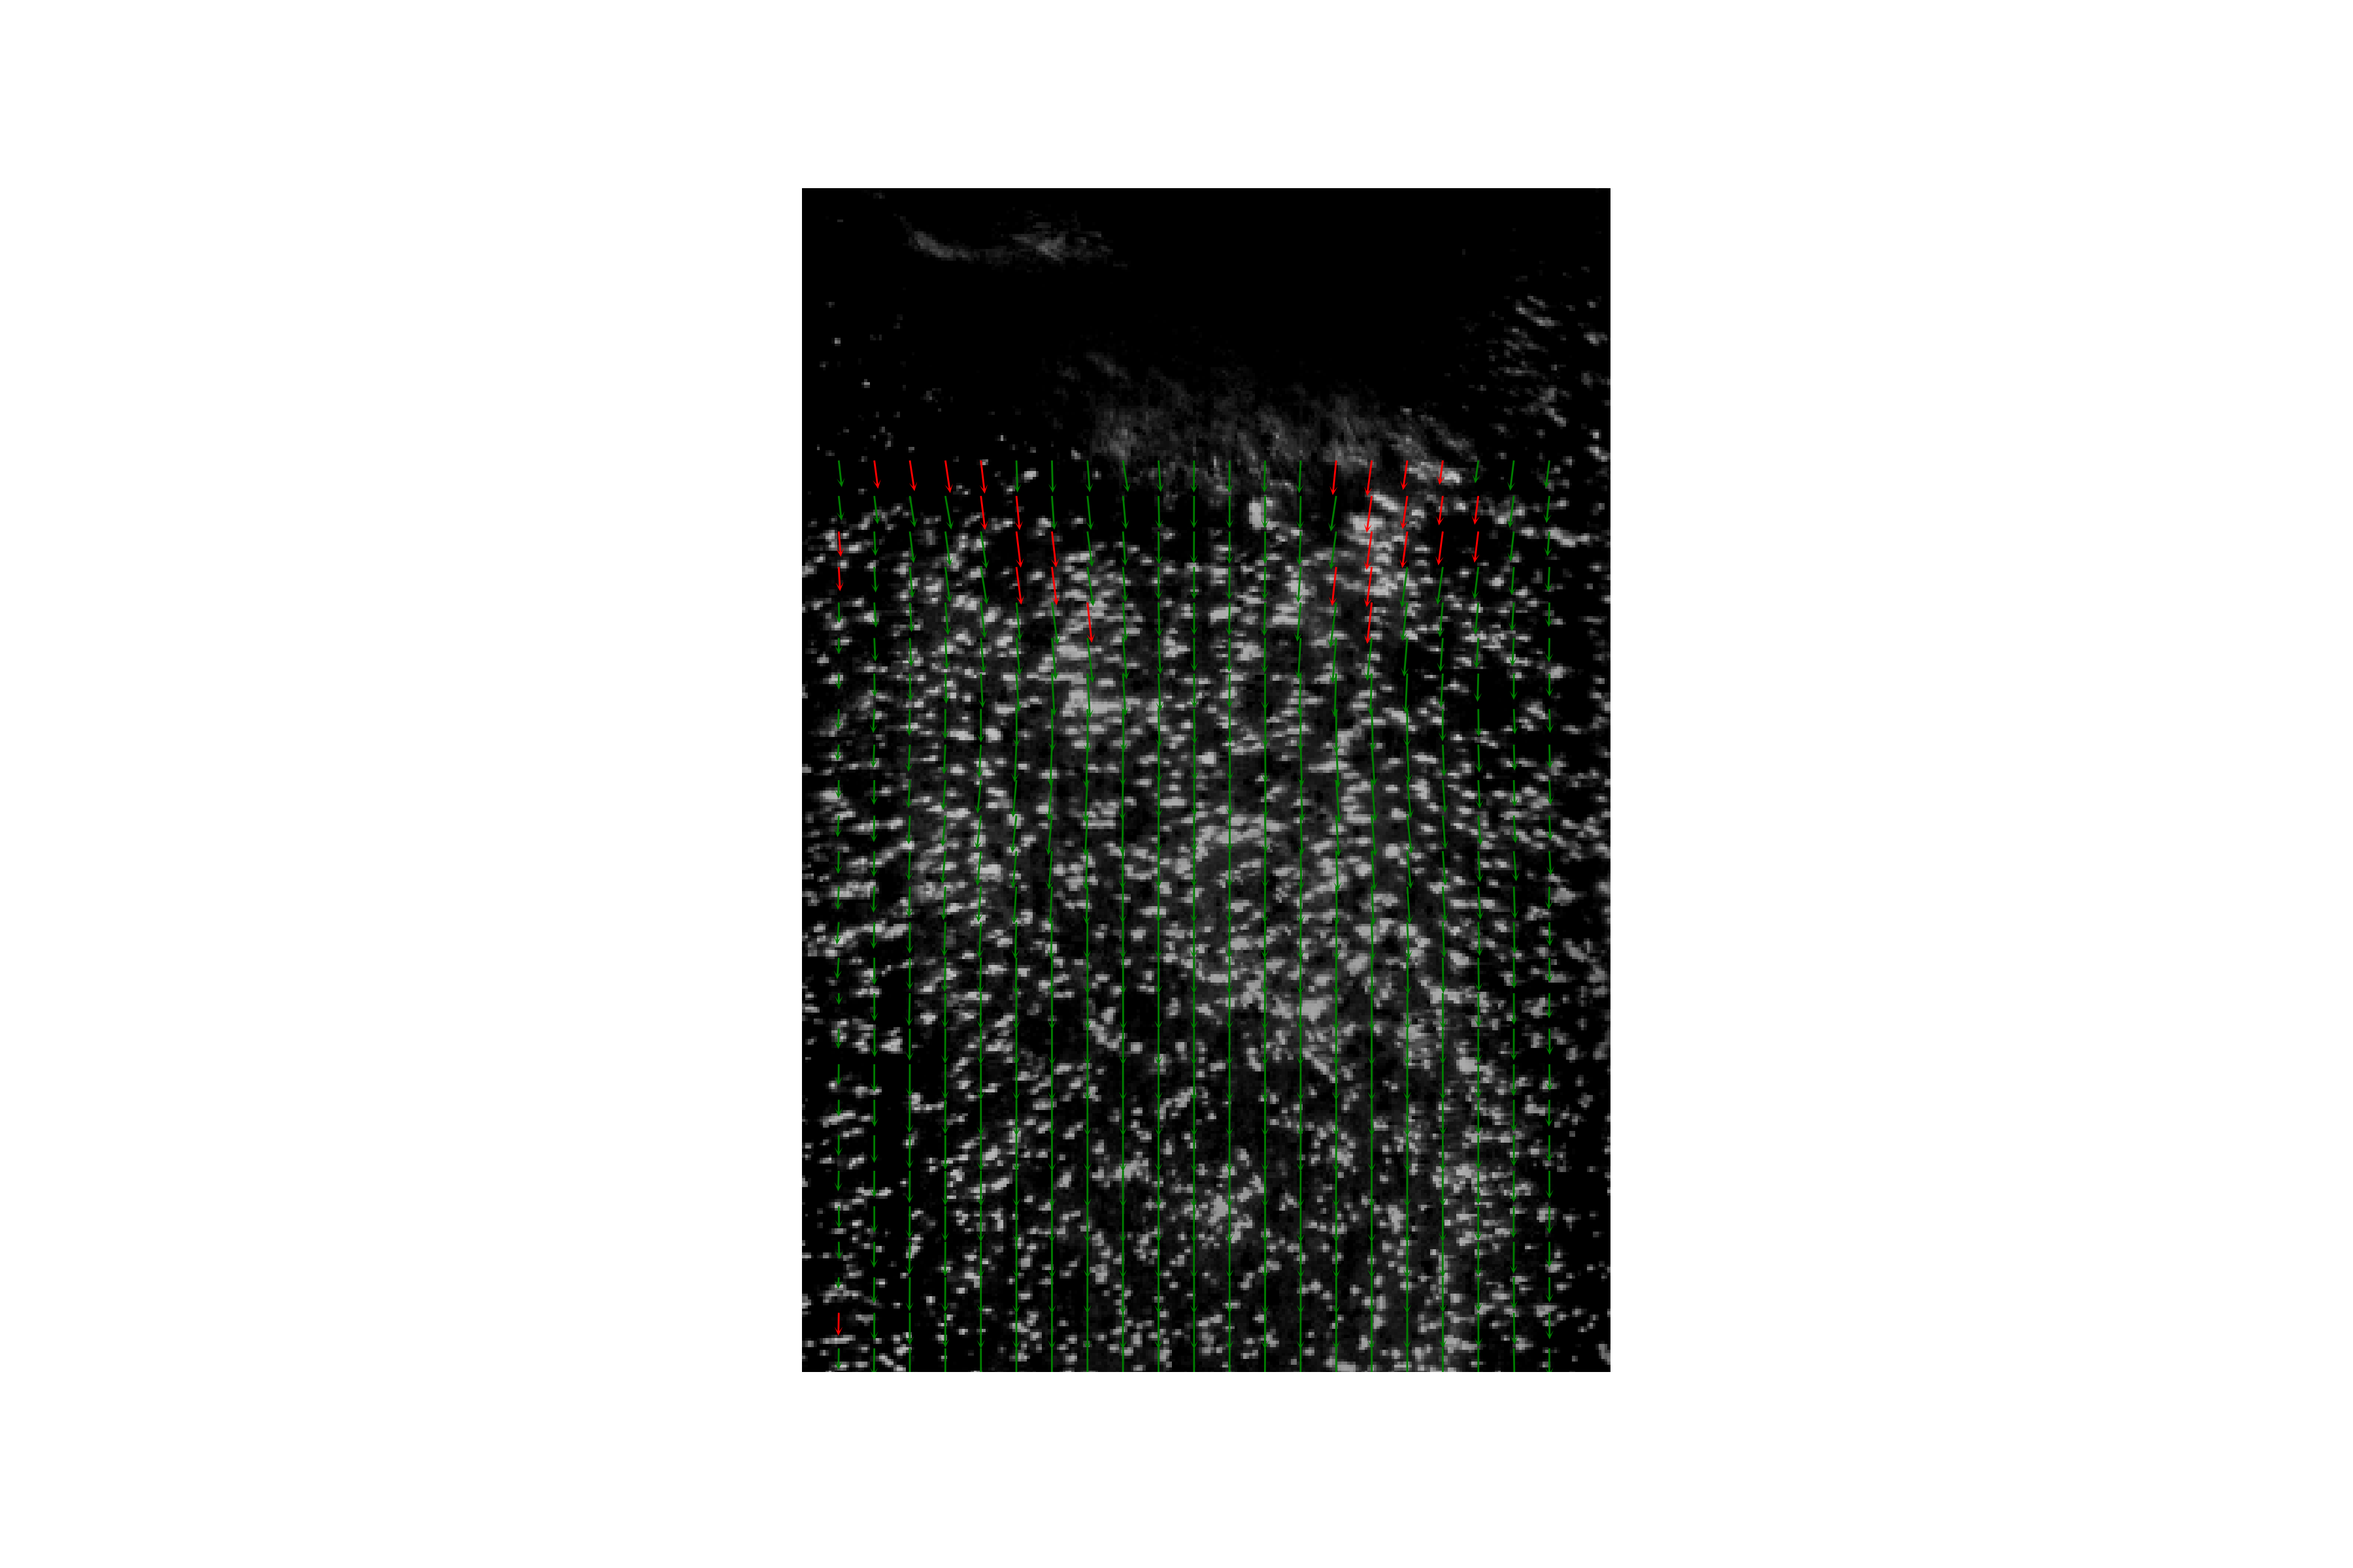
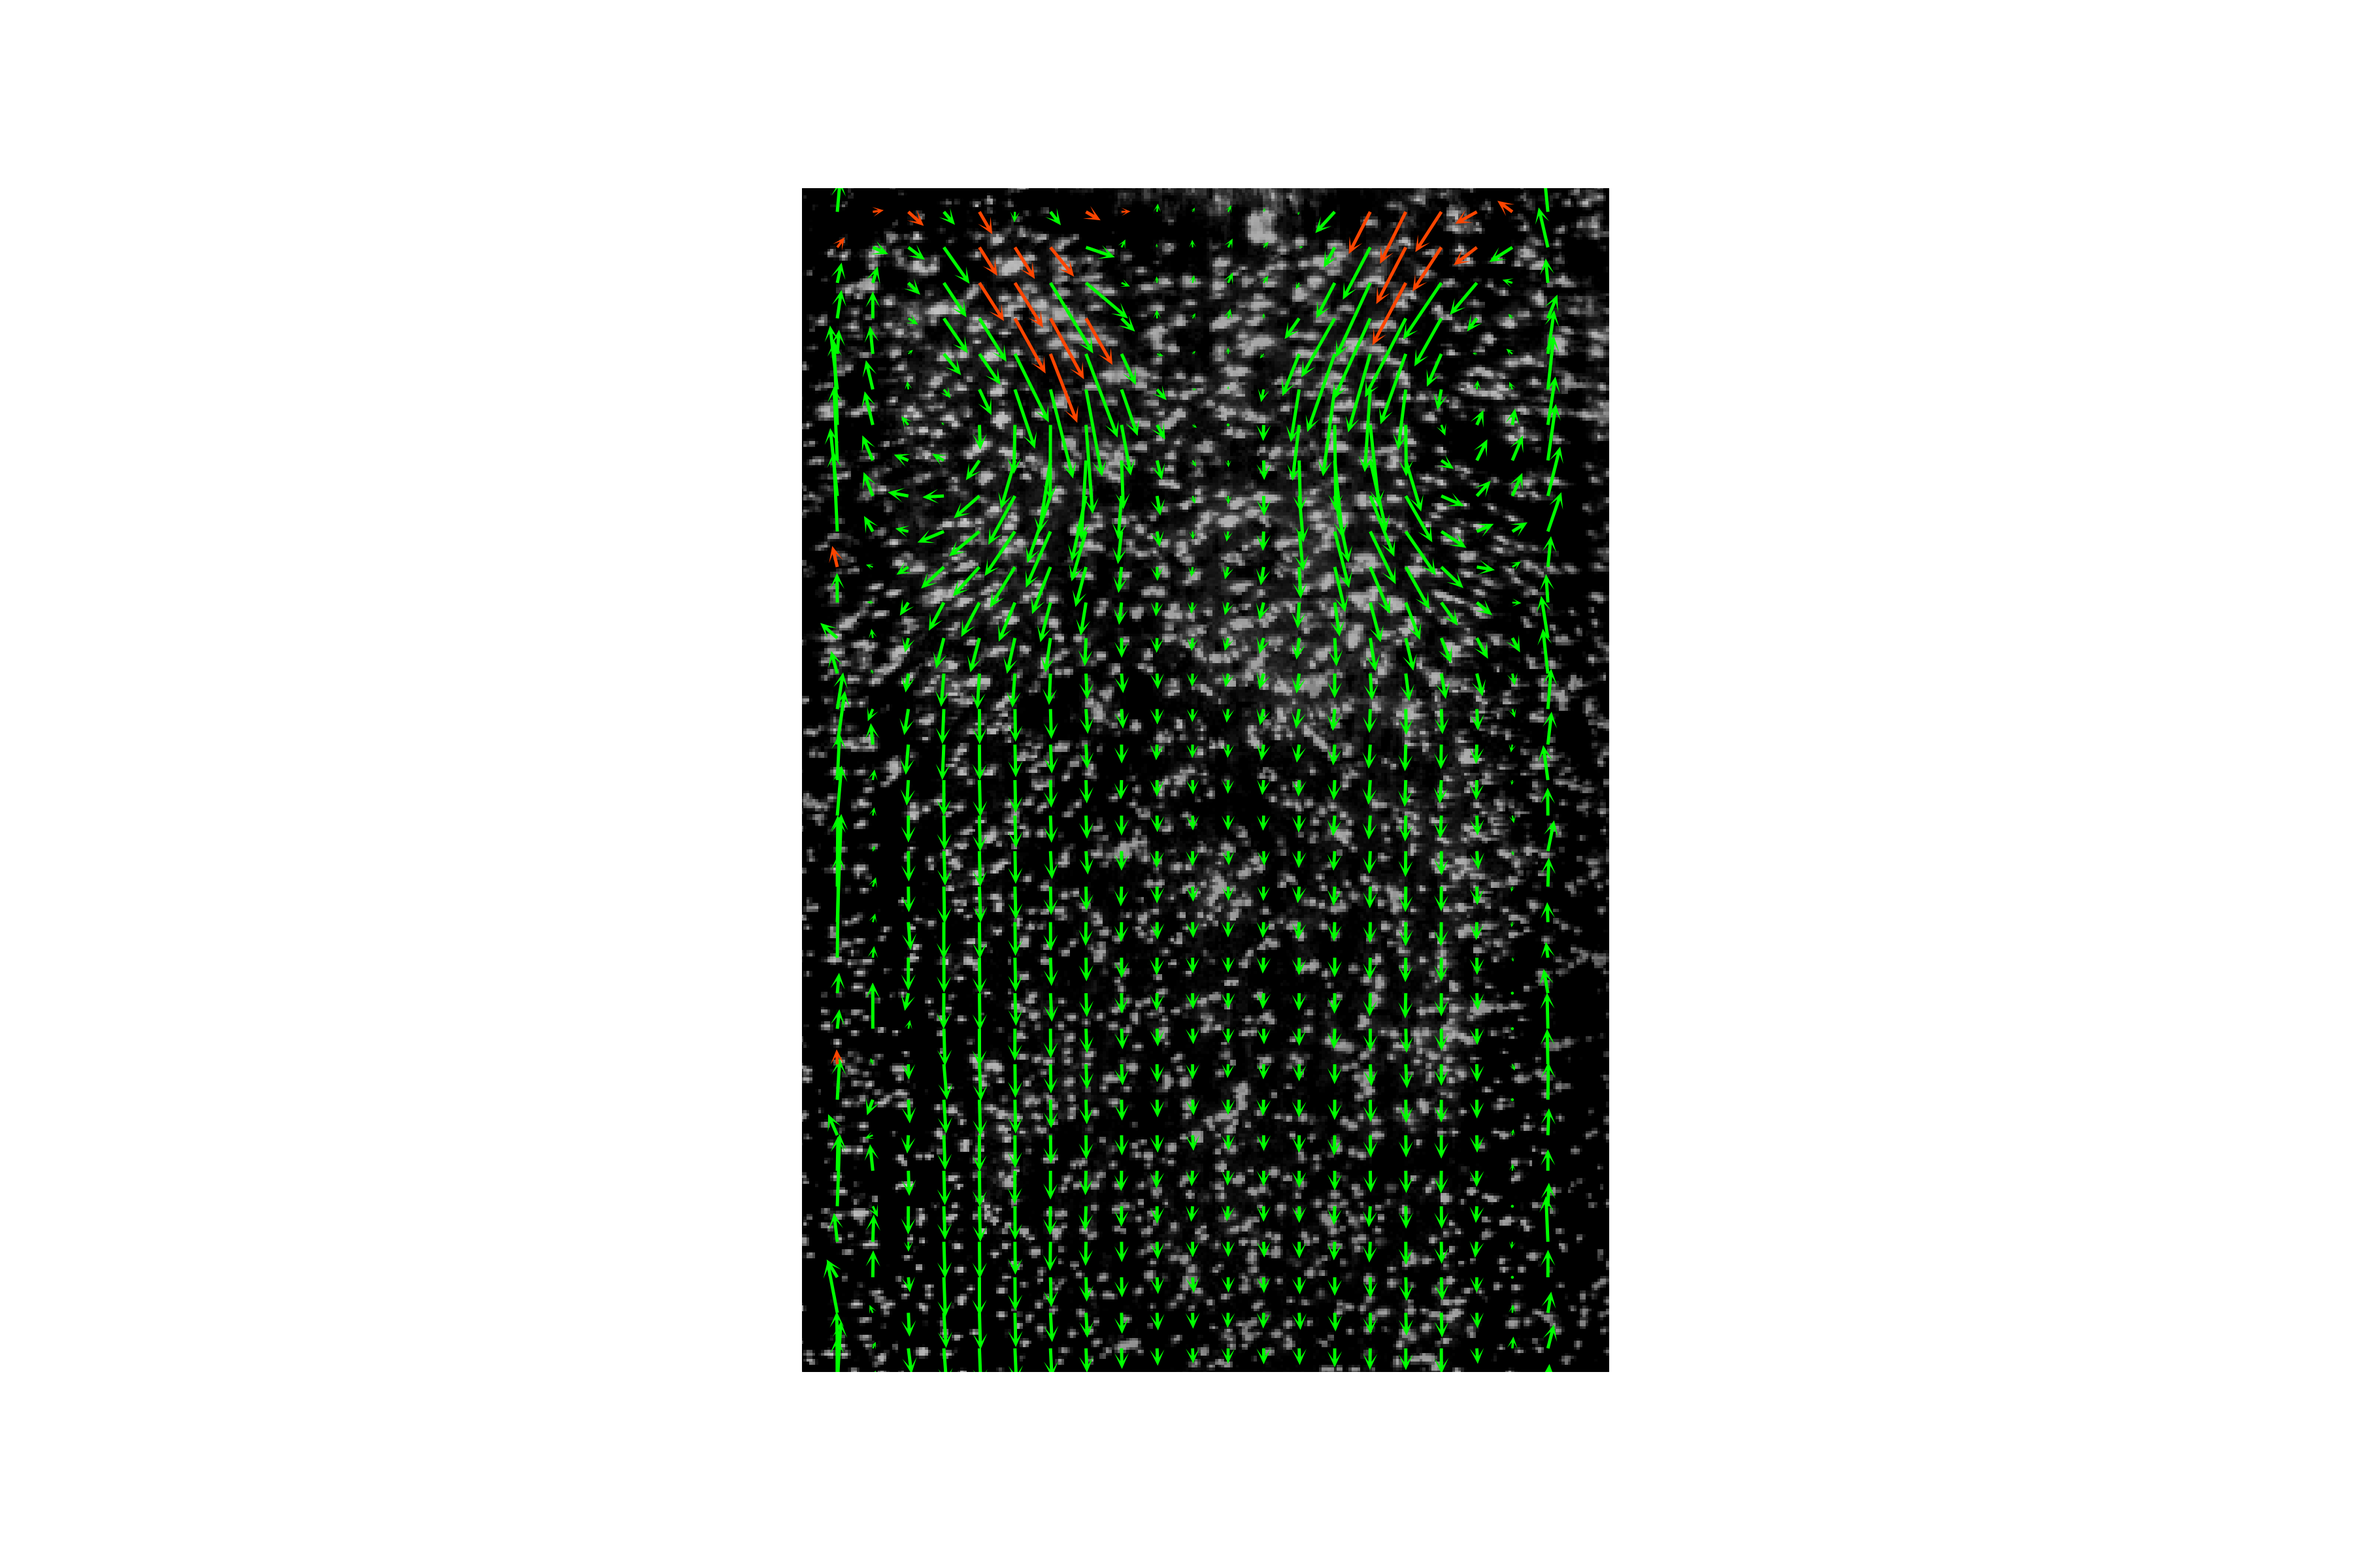
Highpass filtering for visualization of vorticies

Changed region(s): [[0.3422, 0.0938, 0.6844, 0.875]]

diff --git a/PIV_Campaign_Processing/Post_Processing/vorticies_filtering.py b/PIV_Campaign_Processing/Post_Processing/vorticies_filtering.py
@@ -3,94 +3,105 @@
 Created on Wed Dec  2 11:56:58 2020
 
 @author: Manuel Ratz
+@description: Code to test the highpass filter to visualize the vorticies.
+    This is just an example for one fall, the rest will be implemented in the 
+    automatized postprocessing later
 """
 
 import sys
 sys.path.append('C:\\Users\manue\Documents\GitHub\\ratzVKI\PIV_Campaign_Processing')
 
-import numpy as np
-import post_processing_functions as ppf
-import os
-import cv2
-import matplotlib.pyplot as plt
-import scipy.signal as sci 
-
+import numpy as np                       # for array operations
+import post_processing_functions as ppf  # for loading of data, etc
+import os                                # for data paths
+import cv2                               # for reading of the raw tifs
+import matplotlib.pyplot as plt          # for plotting the result
+from scipy import ndimage                # for the high pass filtering
+import imageio                           # for the gif rendering
+import shutil                            # for deleting the folder in the end
 #%%
-"""
-Here we load the images and the data by giving the input folders
-"""
-
+# set up the folders containing the results and the raw images
 Fol_Raw = 'C:\PIV_Processed\Images_Preprocessed\F_h2_f1000_1_q'+ os.sep
-Fol_In = 'C:\PIV_Processed\Images_Processed\Results_F_h2_f1000_1_q_peak2RMS_24_24' 
-
-# give the loading index and load the image
-Index = 326
-image_name = Fol_Raw + 'F_h2_f1000_1_q.%06d.tif' %Index
-img = cv2.imread(image_name,0)
-img = np.flip(img, axis = 0)
+Fol_In = 'C:\PIV_Processed\Images_Processed\Results_F_h2_f1000_1_q_24_24' 
 
 # load the data
 NX = ppf.get_column_amount(Fol_In) # amount of columns
-x, y, u, v, ratio, mask = ppf.load_txt(Fol_In, Index, NX)
+Im_Height, Im_Width = ppf.get_img_shape(Fol_Raw) # height and width of the raw image
+Fol_Img = ppf.create_folder('Gif_Images') # folder for the gif images
 
-#%%
-"""
-Here we start with the filtering of the velocity fields to look for vorticies
-"""
+Images = [] # empty list to append into
+Gif_Name = 'Vorticy_fall.gif' # name of the final gif
 
-# # Old code as examplatory testing
-# n=200 # amont of samples
-# fs = 100 # sampling frequency
-# t = np.arange(0, n/fs, 1/fs) # set up the timesteps
-# data = np.cos(t*np.pi) # create data
-# data = data + np.random.random(n) * 0.2 # make data noisy
+# loop parameters
+Frame0 = 310 # first frame with the vorticies
+STP = 1 # stp size in time
+N_T = 40 # number of images
 
-# # define the observation windows in the time domain
-# fil = sci.firwin(20, 100/fs*2 , window='hamming', fs = 50)
+# set up the loop
+for i in range(0, N_T):
+    Index = Frame0 + i*STP # loading index of the image
+    print('Ímage %d of %d' %((i+1), N_T//STP)) # update the user
+    # read the image and flip it vertically, this is to fit in with the calculated fields
+    image_name = Fol_Raw + 'F_h2_f1000_1_q.%06d.tif' %Index 
+    img = cv2.imread(image_name,0)
+    img = np.flip(img, axis = 0)
+    # load the data
+    x, y, u, v, ratio, mask = ppf.load_txt(Fol_In, Index, NX)
+    #%%
+    """
+    Here we start with the filtering of the velocity fields to look for vorticies
+    """
+    # sigma of the filter and the truncation
+    sigma = 6
+    truncate = 5
+    # get the blurred velocity field
+    u_blur = ndimage.gaussian_filter(u, sigma = sigma, mode = 'nearest', truncate = truncate)
+    v_blur = ndimage.gaussian_filter(v, sigma = sigma, mode = 'nearest', truncate = truncate)
+    # subtract to get the high pass filtered velocity field
+    u_filt = u - u_blur
+    v_filt = v - v_blur
+    
+    
+    #%%
+    """
+    This is cosmetics to make the plot look good and finally plot the result
+    """
+    
+    # give the steps in case we want to skip rows and columns
+    Stpx = 1
+    Stpy = 1
+    x = x[::Stpy, ::Stpx]
+    y = y[::Stpy, ::Stpx]
+    u = u[::Stpy, ::Stpx]
+    v = v[::Stpy, ::Stpx]
+    ratio = ratio[::Stpy, ::Stpx]
+    mask = mask[::Stpy, ::Stpx]
+    # valid and invalid points for the colors of the quiverplot
+    invalid = mask.astype('bool')
+    valid = ~invalid # mask for the colors
+    
+    # create the figure
+    fig, ax = plt.subplots(figsize = (4, 8))
+    ax.imshow(img, cmap = plt.cm.gray, alpha = 1) # show the iamge
+    ax.axis('off') # disable the axis
+    ax.invert_yaxis() # because image is inverted
+    # scaling parameters for the plots
+    Scale = 50 # for the arrow length
+    Width = 0.004 # for the width of the base
+    Headwidth = 4.5 # for the width of the head
+    Headaxislength = 2.5 # for the length of the head
+    ax.set_aspect(1) # equal aspect ratio in case we dont have the raw image
+    # quiver plots, valid and invalid
+    ax.quiver(x[valid], y[valid], u_filt[valid], v_filt[valid], color = 'lime', scale = Scale,\
+              width = Width, headwidth = Headwidth, headaxislength = Headaxislength)
+    ax.quiver(x[invalid], y[invalid], u_filt[invalid], v_filt[invalid], color = 'orangered', scale = Scale,\
+              width = Width, headwidth = Headwidth, headaxislength = Headaxislength)
+    ax.set_xlim(0, Im_Width) # in case the image is not plotted
+    ax.set_ylim(Im_Height-800, Im_Height) # to better see the part close to the surface
+    Name_Out = Fol_Img + os.sep + 'Vorticies_fall%06d.png' %Index # output name of the image
+    fig.savefig(Name_Out, dpi = 150) # save the result
+    Images.append(imageio.imread(Name_Out)) # append into the list
+    plt.close(fig) # close in the plot window
+imageio.mimsave(Gif_Name, Images, duration = 0.1) # render the gif
 
-# # filter the data with filtfilt
-# data_filt = sci.filtfilt(b = fil, a = [1], x = data)
-
-# fig, ax = plt.subplots(figsize = (8,5))
-# ax.plot(t, data, label = 'Unfiltered', c = 'b')
-# ax.plot(t, data_filt, label = 'filtered', c = 'r')
-# ax.set_xlabel('t[s]')
-# ax.set_ylabel('cos(t)')
-# ax.set_xlim([0, n//fs])
-# ax.set_ylim(-1, 1.2)
-
-
-#%%
-"""
-This is cosmetics to make the plot look good and finally plot the result
-"""
-
-# give the steps in case we want to skip rows and columns
-Stpx = 1
-Stpy = 1
-x = x[::Stpy, ::Stpx]
-y = y[::Stpy, ::Stpx]
-u = u[::Stpy, ::Stpx]
-v = v[::Stpy, ::Stpx]
-ratio = ratio[::Stpy, ::Stpx]
-mask = mask[::Stpy, ::Stpx]
-invalid = mask.astype('bool')
-valid = ~invalid # mask for the colors
-
-# create the figure
-fig, ax = plt.subplots()
-ax.imshow(img, cmap = plt.cm.gray) # show the iamge
-ax.axis('off') # disable the axis
-ax.invert_yaxis() # because image is inverted
-# scaling parameters for the plots
-Scale = 400 # for the arrow length
-Width = 0.00225 # for the width of the base
-Headwidth = 4.5 # for the width of the head
-Headaxislength = 2.5 # for the length of the head
-# quiver plots, valid and invalid
-ax.quiver(x[valid], y[valid], u[valid], v[valid], color = 'g', scale = Scale,\
-          width = Width, headwidth = Headwidth, headaxislength = Headaxislength)
-ax.quiver(x[invalid], y[invalid], u[invalid], v[invalid], color = 'r', scale = Scale,\
-          width = Width, headwidth = Headwidth, headaxislength = Headaxislength)
-ax.set_ylim(700,1100) # to better see the part close to the surface
-fig.savefig('Vorticies_fall.png', dpi = 600) # save the result
+shutil.rmtree(Fol_Img) # delete the folder with the gif images
